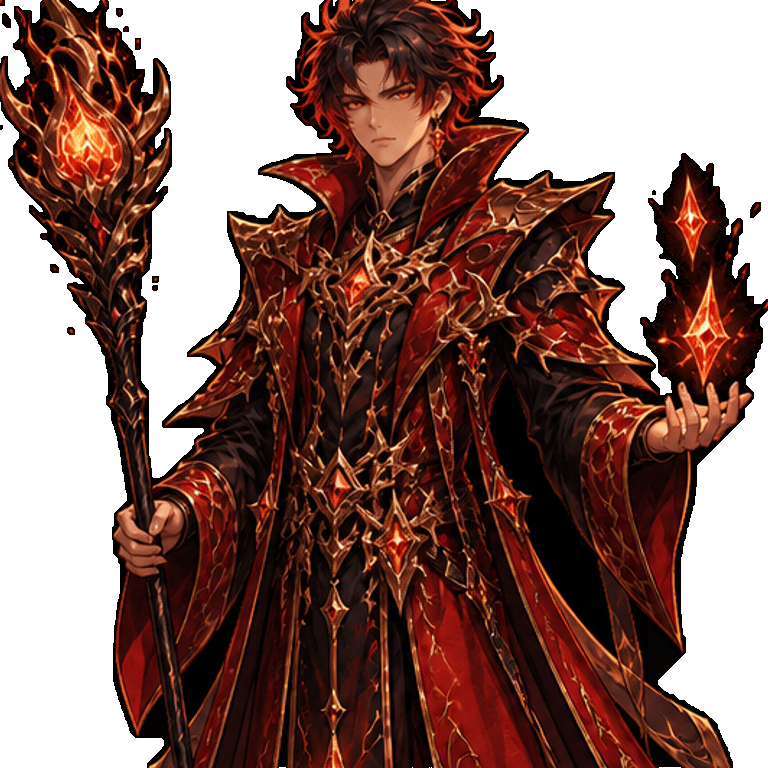
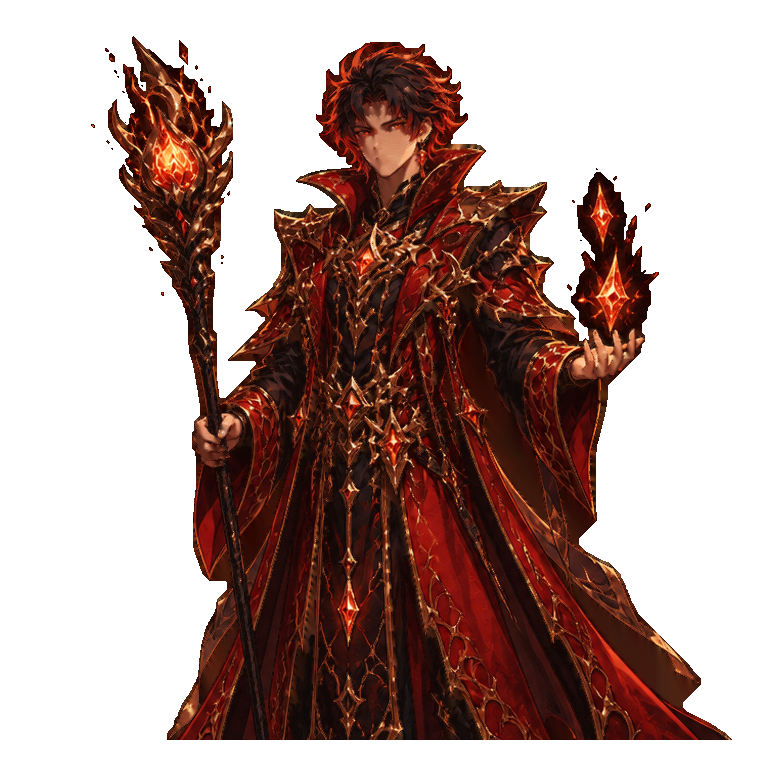
소환사 초상 bust 재생성과 핸드오프 문서 정리
portraits:rebuild로 소환사 5속성 초상도 갱신하고 완료 상태로 문서를 맞춘다.

diff --git a/docs/art/monster/inventory-bust-handoff.md b/docs/art/monster/inventory-bust-handoff.md
@@ -1,25 +1,19 @@
-# Inventory bust framing — handoff
+# Inventory bust framing
 
 ## Goal
-Make inventory summon icons clearly show **head + torso** (not face-only crops).
+Inventory summon icons show **head + torso** clearly (not face-only crops).
 
-## Done
+## Implementation
 - Shared alpha-bbox bust crop: `scripts/lib/bust-crop.mjs`
 - Wired into `scripts/process-all-portraits.mjs` and `scripts/install-battle-stills.mjs`
 - Softened slime slot CSS nudge in `apps/web/src/style.css`
-- Partial portrait/inventory rebuild (~422 / ~507 art keys) before pause
+- Full rebuild: `npm run portraits:rebuild` → 512 ok / 0 warn / 0 missing
 
-## Resume (evening)
+## Regenerate
 ```bash
-git checkout cursor/inventory-bust-framing-7b23
-git pull
-npm run portraits:rebuild   # finishes remaining keys (safe to re-run all)
-# optional QA contact sheet, then PR → main
+npm run portraits:rebuild
 ```
-
-Rebuild is idempotent — re-running regenerates all portraits + `inventory/128|256` derivatives.
 
 ## Notes
 - Squat silhouettes (aspect &lt; 0.95, e.g. slime/turtle) keep more of the body.
 - Humanoids use ~68% silhouette height, maxZoom 0.68.
-- Do **not** merge half-rebuilt assets alone; finish rebuild first for consistent framing.
